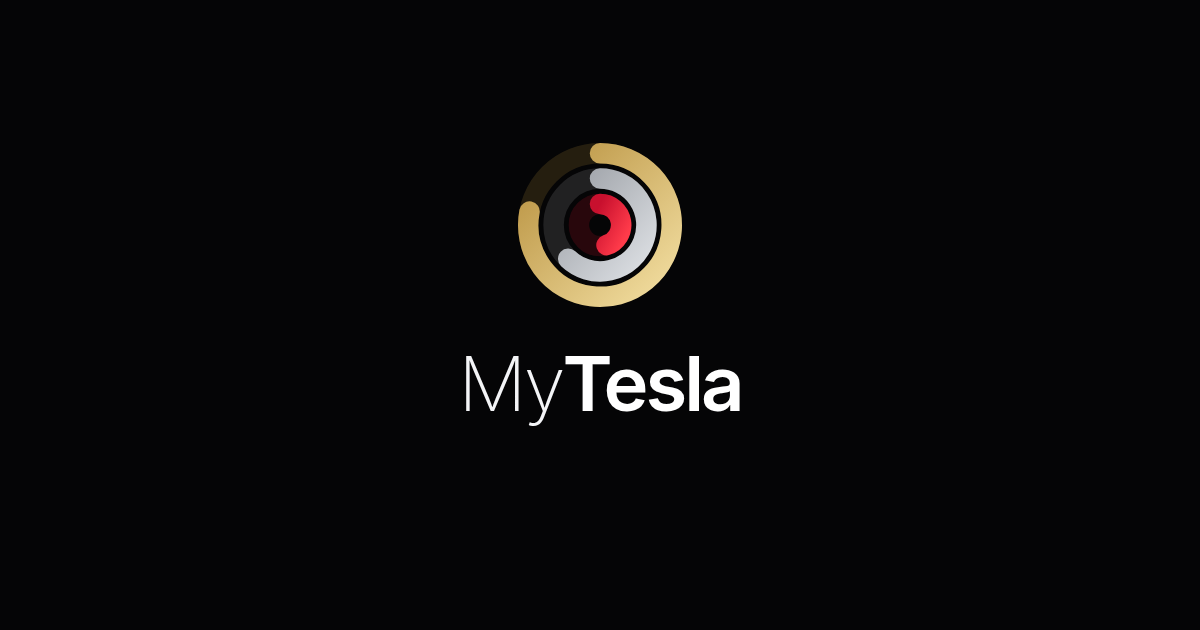
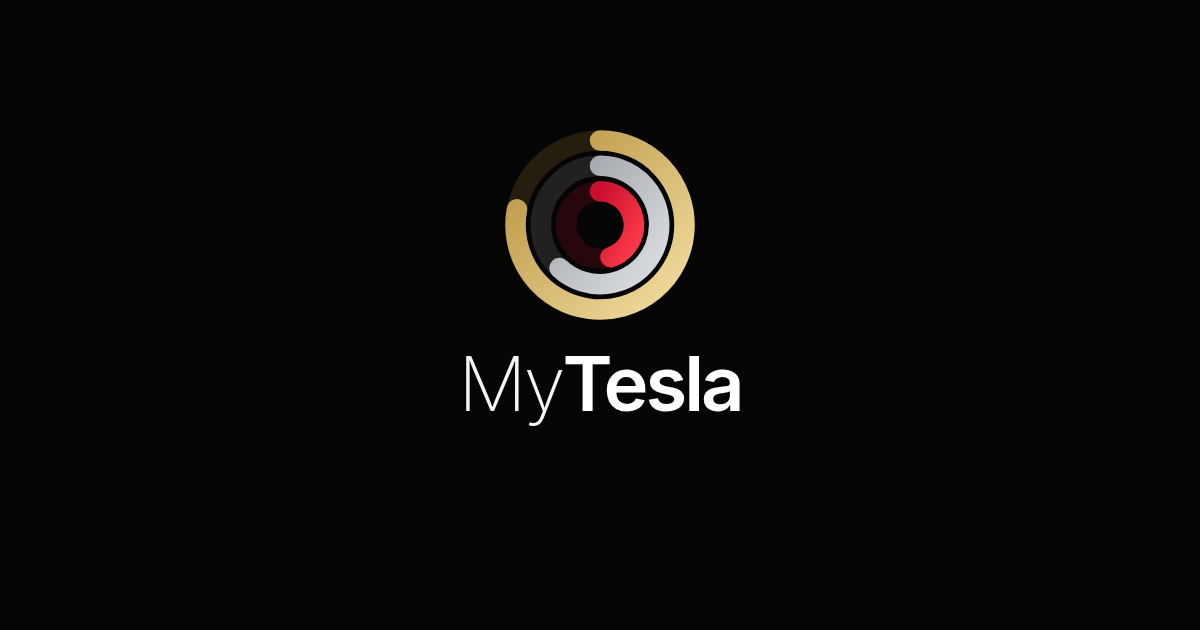
Larger option-B rings; temporary pairing UI for Home Screen re-add
Keep absolute stroke thickness; enlarge icon/og ring diameter to option B.
Restore Enable notifications / Copy code so Giovanni can re-pair after replacing the Home Screen app.

Changed region(s): [[0.4008, 0.2111, 0.5858, 0.5127]]

diff --git a/index.html b/index.html
@@ -8,15 +8,15 @@
 <meta name="robots" content="noindex">
 <meta name="description" content="Everything about my Tesla in three rings: update odds, gas savings and plan value. Updated daily.">
 <title>MyTesla</title>
-<link rel="icon" href="favicon.ico?v=ae0a9e6cf4" sizes="16x16 32x32 48x48">
-<link rel="icon" href="assets/icon-32.png?v=ce8975d16d" type="image/png" sizes="32x32">
-<link rel="icon" href="assets/icon.svg?v=7e483f612b" type="image/svg+xml" sizes="any">
-<link rel="apple-touch-icon" href="assets/touch-icon-180.png?v=1860befc85" sizes="180x180">
-<link rel="apple-touch-icon" href="assets/touch-icon-167.png?v=c87702ba00" sizes="167x167">
-<link rel="apple-touch-icon" href="assets/touch-icon-152.png?v=e21e76531f" sizes="152x152">
-<link rel="apple-touch-icon" href="assets/touch-icon-120.png?v=350e2f176d" sizes="120x120">
+<link rel="icon" href="favicon.ico?v=9c14b0f9a2" sizes="16x16 32x32 48x48">
+<link rel="icon" href="assets/icon-32.png?v=05fc0893bf" type="image/png" sizes="32x32">
+<link rel="icon" href="assets/icon.svg?v=2bc5793ec3" type="image/svg+xml" sizes="any">
+<link rel="apple-touch-icon" href="assets/touch-icon-180.png?v=90409cc8c6" sizes="180x180">
+<link rel="apple-touch-icon" href="assets/touch-icon-167.png?v=cb49627812" sizes="167x167">
+<link rel="apple-touch-icon" href="assets/touch-icon-152.png?v=fde4f9e70a" sizes="152x152">
+<link rel="apple-touch-icon" href="assets/touch-icon-120.png?v=10475efc80" sizes="120x120">
 <link rel="mask-icon" href="safari-pinned-tab.svg?v=009a2604a4" color="#e82127">
-<link rel="manifest" href="site.webmanifest?v=a8c11947b1">
+<link rel="manifest" href="site.webmanifest?v=5af7907d30">
 <meta name="apple-mobile-web-app-title" content="MyTesla">
 <meta name="apple-mobile-web-app-capable" content="yes">
 <meta name="mobile-web-app-capable" content="yes">
@@ -26,16 +26,16 @@
 <meta property="og:title" content="MyTesla">
 <meta property="og:description" content="Everything about my Tesla in three rings: update odds, gas savings and plan value. Updated daily.">
 <meta property="og:url" content="https://ggalletti1.github.io/">
-<meta property="og:image" content="https://ggalletti1.github.io/assets/og.png?v=aef200e745">
+<meta property="og:image" content="https://ggalletti1.github.io/assets/og.png?v=dcd8c1906b">
 <meta property="og:image:width" content="1200">
 <meta property="og:image:height" content="630">
 <meta property="og:image:alt" content="MyTesla: three rings on a dark background">
 <meta name="twitter:card" content="summary_large_image">
 <meta name="twitter:title" content="MyTesla">
 <meta name="twitter:description" content="Everything about my Tesla in three rings: update odds, gas savings and plan value. Updated daily.">
-<meta name="twitter:image" content="https://ggalletti1.github.io/assets/og.png?v=aef200e745">
+<meta name="twitter:image" content="https://ggalletti1.github.io/assets/og.png?v=dcd8c1906b">
 <script>/* set theme before first paint to avoid a flash */(function(){var d=document.documentElement,m='system';try{var s=localStorage.getItem('theme');if(s==='light'||s==='dark')m=s;}catch(e){}var t=m==='system'?(window.matchMedia&&matchMedia('(prefers-color-scheme: light)').matches?'light':'dark'):m;d.setAttribute('data-mode',m);d.setAttribute('data-theme',t);d.style.colorScheme=t;})();</script>
-<link rel="stylesheet" href="assets/style.css?v=2fd59911be">
+<link rel="stylesheet" href="assets/style.css?v=8936a7b640">
 </head>
 <body>
 <main class="wrap">
@@ -71,6 +71,17 @@
   </section>
 </main>
 <footer class="wrap">
+  <div class="push-controls">
+    <button class="push-btn" id="push-enable" type="button" hidden>Enable notifications</button>
+    <button class="push-link" id="push-setup" type="button" hidden>Notification setup</button>
+    <p class="note" id="push-status" role="status" aria-live="polite"></p>
+    <div class="push-pair" id="push-pair" hidden>
+      <label for="push-code">Private pairing code</label>
+      <textarea id="push-code" readonly rows="3" spellcheck="false" autocapitalize="off" autocomplete="off" aria-describedby="push-status"></textarea>
+      <div><button class="push-btn" id="push-copy" type="button">Copy code</button>
+      <button class="push-link" id="push-done" type="button">Done</button></div>
+    </div>
+  </div>
   <p>Not affiliated with or endorsed by Tesla, Inc.</p>
 </footer>
 <script src="assets/js/core.js?v=95c8ee3dfd"></script>
@@ -79,8 +90,6 @@
 <script src="assets/js/charging.js?v=5e74988c7b"></script>
 <script src="assets/js/cost.js?v=53e8a6133e"></script>
 <script src="assets/js/main.js?v=6742d1a948"></script>
-<script>/* Keep the existing push worker updated; no permission request or enrollment. */
-if ('serviceWorker' in navigator) navigator.serviceWorker.register('/sw.js', {scope:'/', updateViaCache:'none'}).catch(function(){});
-</script>
+<script src="assets/js/push.js?v=18ac2b966d"></script>
 </body>
 </html>

diff --git a/assets/js/push.js b/assets/js/push.js
@@ -1,0 +1,58 @@
+/* Permission only on a tap. Pair privately through Driver; no subscription upload endpoint. */
+'use strict';
+(async function notifications() {
+  const enable = document.getElementById('push-enable'), setup = document.getElementById('push-setup');
+  const panel = document.getElementById('push-pair'), code = document.getElementById('push-code');
+  const status = document.getElementById('push-status');
+  if (!enable || !('serviceWorker' in navigator)) return;
+  let registration, key, subscription;
+  const message = text => { status.textContent = text; };
+  function pairing() {
+    if (!subscription) return;
+    const bytes = new Uint8Array(16); crypto.getRandomValues(bytes);
+    const nonce = [...bytes].map(x => x.toString(16).padStart(2, '0')).join('');
+    const s = subscription.toJSON();
+    const data = JSON.stringify({v: 1, nonce, subscription: {endpoint: s.endpoint, keys: s.keys}});
+    code.value = 'MYTESLA1.' + btoa(data).replace(/\+/g, '-').replace(/\//g, '_').replace(/=+$/, '');
+    panel.hidden = false;
+    message('Copy this private code and paste it into the secure box Driver sends you.');
+  }
+  try {
+    registration = await navigator.serviceWorker.register('/sw.js', {scope: '/', updateViaCache: 'none'});
+    registration = await navigator.serviceWorker.ready;
+    if (!('PushManager' in window) || !('Notification' in window)) {
+      const ios = /iPad|iPhone|iPod/.test(navigator.userAgent) || (navigator.platform === 'MacIntel' && navigator.maxTouchPoints > 1);
+      if (ios) message('For notifications, open MyTesla from your Home Screen. If needed, add it using Safari’s Share menu.');
+      return;
+    }
+    const response = await fetch('/data/push-config.json', {cache: 'no-store'});
+    if (!response.ok) throw new Error('configuration');
+    key = new Uint8Array((await response.json()).applicationServerKey);
+    subscription = await registration.pushManager.getSubscription();
+    if (subscription && Notification.permission === 'granted') {
+      setup.hidden = false; // Enable stays hidden; setup lets you recover a lost pairing code.
+    } else if (Notification.permission === 'denied') {
+      message('Notifications are off. You can allow MyTesla in your browser or device notification settings.');
+      return;
+    } else { enable.hidden = false; }
+  } catch (_) { message('Notification setup is unavailable. Please try again later.'); return; }
+  enable.addEventListener('click', async () => {
+    enable.disabled = true;
+    try {
+      // Call directly from this gesture, before awaiting anything else (required on iPhone).
+      const permission = await Notification.requestPermission();
+      if (permission !== 'granted') { message('Notifications weren’t enabled. You can change this in notification settings.'); return; }
+      subscription = await registration.pushManager.subscribe({userVisibleOnly: true, applicationServerKey: key});
+      enable.hidden = true; setup.hidden = false; pairing();
+    } catch (_) { message('Could not enable notifications. Please try again.'); }
+    finally { enable.disabled = false; }
+  });
+  setup.addEventListener('click', pairing);
+  document.getElementById('push-copy').addEventListener('click', async () => {
+    try { await navigator.clipboard.writeText(code.value); message('Copied. Paste it into the secure box Driver sends you.'); }
+    catch (_) { code.focus(); code.select(); message('Select and copy the code, then paste it into the secure box Driver sends you.'); }
+  });
+  document.getElementById('push-done').addEventListener('click', () => {
+    panel.hidden = true; code.value = ''; message('Driver must import your code before this device can receive notifications.');
+  });
+})();

diff --git a/assets/style.css b/assets/style.css
@@ -48,3 +48,15 @@ footer{color:var(--mute);font-size:12px;padding:10px 16px 30px;text-align:center
 .note{color:var(--mute);font-size:12px;margin:8px 0 0}
 
 @media (max-width:400px){.cta-btn{padding:0 11px;gap:4px}.tb-r{gap:6px}}
+
+/* Quiet, opt-in notification setup; no permission prompt on page load. */
+[hidden]{display:none!important}
+.push-controls{margin:8px auto 18px;max-width:420px}
+.push-btn,.push-link{font:inherit;font-size:12px;cursor:pointer}
+.push-btn{border:1px solid var(--line);border-radius:18px;background:var(--card);color:var(--fg);padding:9px 14px;min-height:36px}
+.push-btn:hover{background:var(--line)}.push-btn:disabled{opacity:.5;cursor:wait}
+.push-link{border:0;background:none;color:var(--mute);padding:9px 10px;text-decoration:underline;text-underline-offset:3px}
+.push-btn:focus-visible,.push-link:focus-visible{outline:2px solid var(--acc);outline-offset:3px}
+.push-pair{margin-top:12px;padding:14px;border:1px solid var(--line);border-radius:16px;background:var(--card);text-align:left}
+.push-pair label{display:block;color:var(--fg);font-weight:600;margin-bottom:8px}
+.push-pair textarea{width:100%;resize:vertical;border:1px solid var(--line);border-radius:8px;background:var(--bg);color:var(--fg);padding:8px;font:11px ui-monospace,monospace;word-break:break-all}
